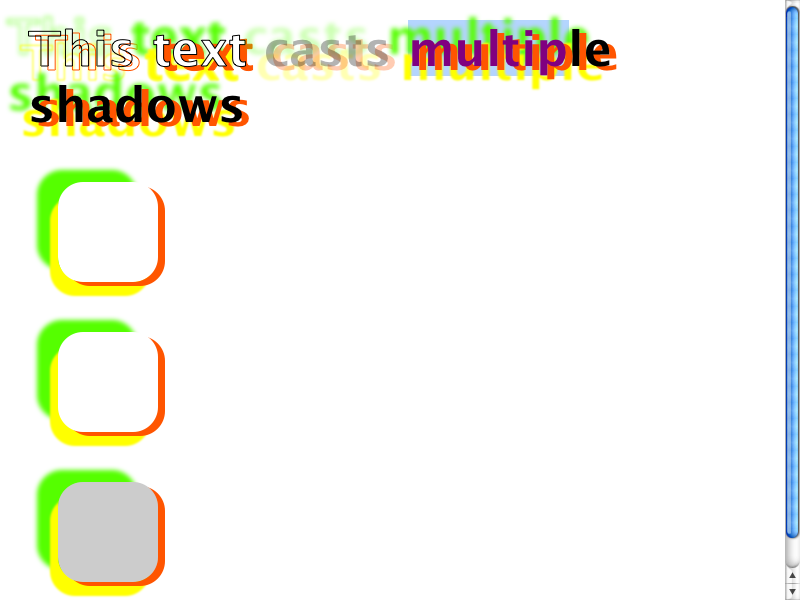
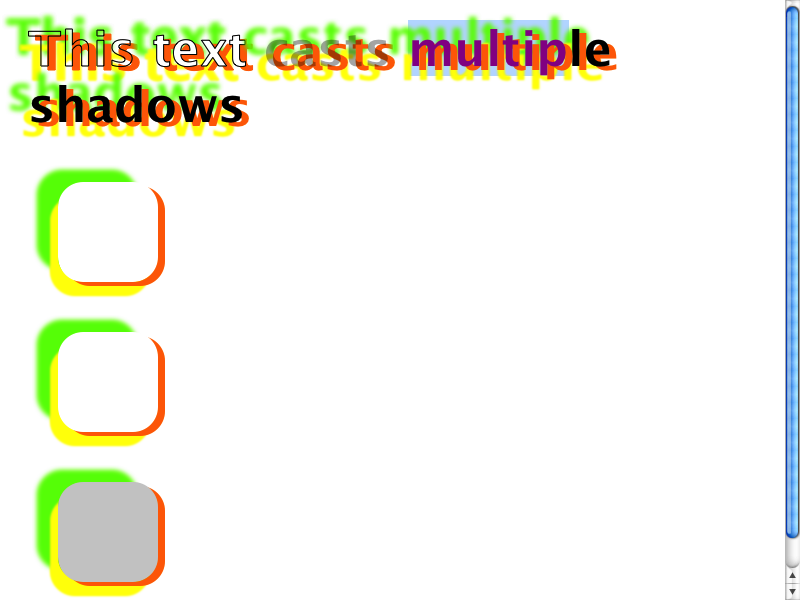
WebCore:
Reviewed by Dave Hyatt.

        text-shadow is not drawn for text with transparent colour
        https://bugs.webkit.org/show_bug.cgi?id=21374

        Test: fast/text/shadow-translucent-fill.html

        * rendering/InlineTextBox.cpp:
        (WebCore::paintTextWithShadows): If the text fill color is not opaque,
        paint all shadows separately from the text, by casting them from
        clipped-out opaque text.

LayoutTests:

        Reviewed by Dave Hyatt.

        text-shadow is not drawn for text with transparent colour
        https://bugs.webkit.org/show_bug.cgi?id=21374

        * fast/text/shadow-translucent-fill.html: Added.
        * platform/mac/fast/css/shadow-multiple-expected.checksum:
        * platform/mac/fast/css/shadow-multiple-expected.png:
        * platform/mac/fast/text/shadow-translucent-fill-expected.checksum: Added.
        * platform/mac/fast/text/shadow-translucent-fill-expected.png: Added.
        * platform/mac/fast/text/shadow-translucent-fill-expected.txt: Added.

Identifier: 37584@main
git-svn-id: https://svn.webkit.org/repository/webkit/trunk@45956 268f45cc-cd09-0410-ab3c-d52691b4dbfc

Changed region(s): [[0.2812, 0.03, 0.5, 0.15], [0.0, 0.0, 0.1875, 0.15]]

diff --git a/LayoutTests/fast/text/shadow-translucent-fill.html b/LayoutTests/fast/text/shadow-translucent-fill.html
@@ -1,0 +1,35 @@
+<style>
+    div {
+        height: 72px;
+        font-family: ahem;
+        font-size: 24px; 
+    }
+</style>
+<p>
+    Test that the intensity of text-shadow does not depend on the transparency
+    of the text fill color.
+</p>
+<div style="text-shadow: green 0 36px 0;">
+    A
+    <span style="color: transparent;">A</span>
+    <span style="color: rgba(0, 0, 0, 0.1);">A</span>
+</div>
+<p>
+    There should be three identical green squares on the line above.
+</p>
+<div style="text-shadow: green 0 36px 3px;">
+    A
+    <span style="color: transparent;">A</span>
+    <span style="color: rgba(0, 0, 0, 0.1);">A</span>
+</div>
+<p>
+    There should be three identical soft-edged green squares on the line above.
+</p>
+<div style="text-shadow: green 0 36px 0; -webkit-text-stroke: 5px blue;">
+    A
+    <span style="color: transparent;">A</span>
+    <span style="color: rgba(0, 0, 0, 0.1);">A</span>
+</div>
+<p>
+    There should be three identical green squares on the line above.
+</p>

diff --git a/WebCore/rendering/InlineTextBox.cpp b/WebCore/rendering/InlineTextBox.cpp
@@ -256,6 +256,11 @@ bool InlineTextBox::nodeAtPoint(const HitTestRequest&, HitTestResult& result, in
 
 static void paintTextWithShadows(GraphicsContext* context, const Font& font, const TextRun& textRun, int startOffset, int endOffset, const IntPoint& textOrigin, int x, int y, int w, int h, ShadowData* shadow, bool stroked)
 {
+    Color fillColor = context->fillColor();
+    bool opaque = fillColor.alpha() == 255;
+    if (!opaque)
+        context->setFillColor(Color::black);
+
     do {
         IntSize extraOffset;
 
@@ -264,7 +269,7 @@ static void paintTextWithShadows(GraphicsContext* context, const Font& font, con
             int shadowBlur = shadow->blur;
             const Color& shadowColor = shadow->color;
 
-            if (shadow->next || stroked) {
+            if (shadow->next || stroked || !opaque) {
                 IntRect shadowRect(x, y, w, h);
                 shadowRect.inflate(shadowBlur);
                 shadowRect.move(shadowOffset);
@@ -275,7 +280,8 @@ static void paintTextWithShadows(GraphicsContext* context, const Font& font, con
                 shadowOffset -= extraOffset;
             }
             context->setShadow(shadowOffset, shadowBlur, shadowColor);
-        }
+        } else if (!opaque)
+            context->setFillColor(fillColor);
 
         if (startOffset <= endOffset)
             context->drawText(font, textRun, textOrigin + extraOffset, startOffset, endOffset);
@@ -289,13 +295,13 @@ static void paintTextWithShadows(GraphicsContext* context, const Font& font, con
         if (!shadow)
             break;
 
-        if (shadow->next || stroked)
+        if (shadow->next || stroked || !opaque)
             context->restore();
         else
             context->clearShadow();
 
         shadow = shadow->next;
-    } while (shadow || stroked);
+    } while (shadow || stroked || !opaque);
 }
 
 void InlineTextBox::paint(RenderObject::PaintInfo& paintInfo, int tx, int ty)
